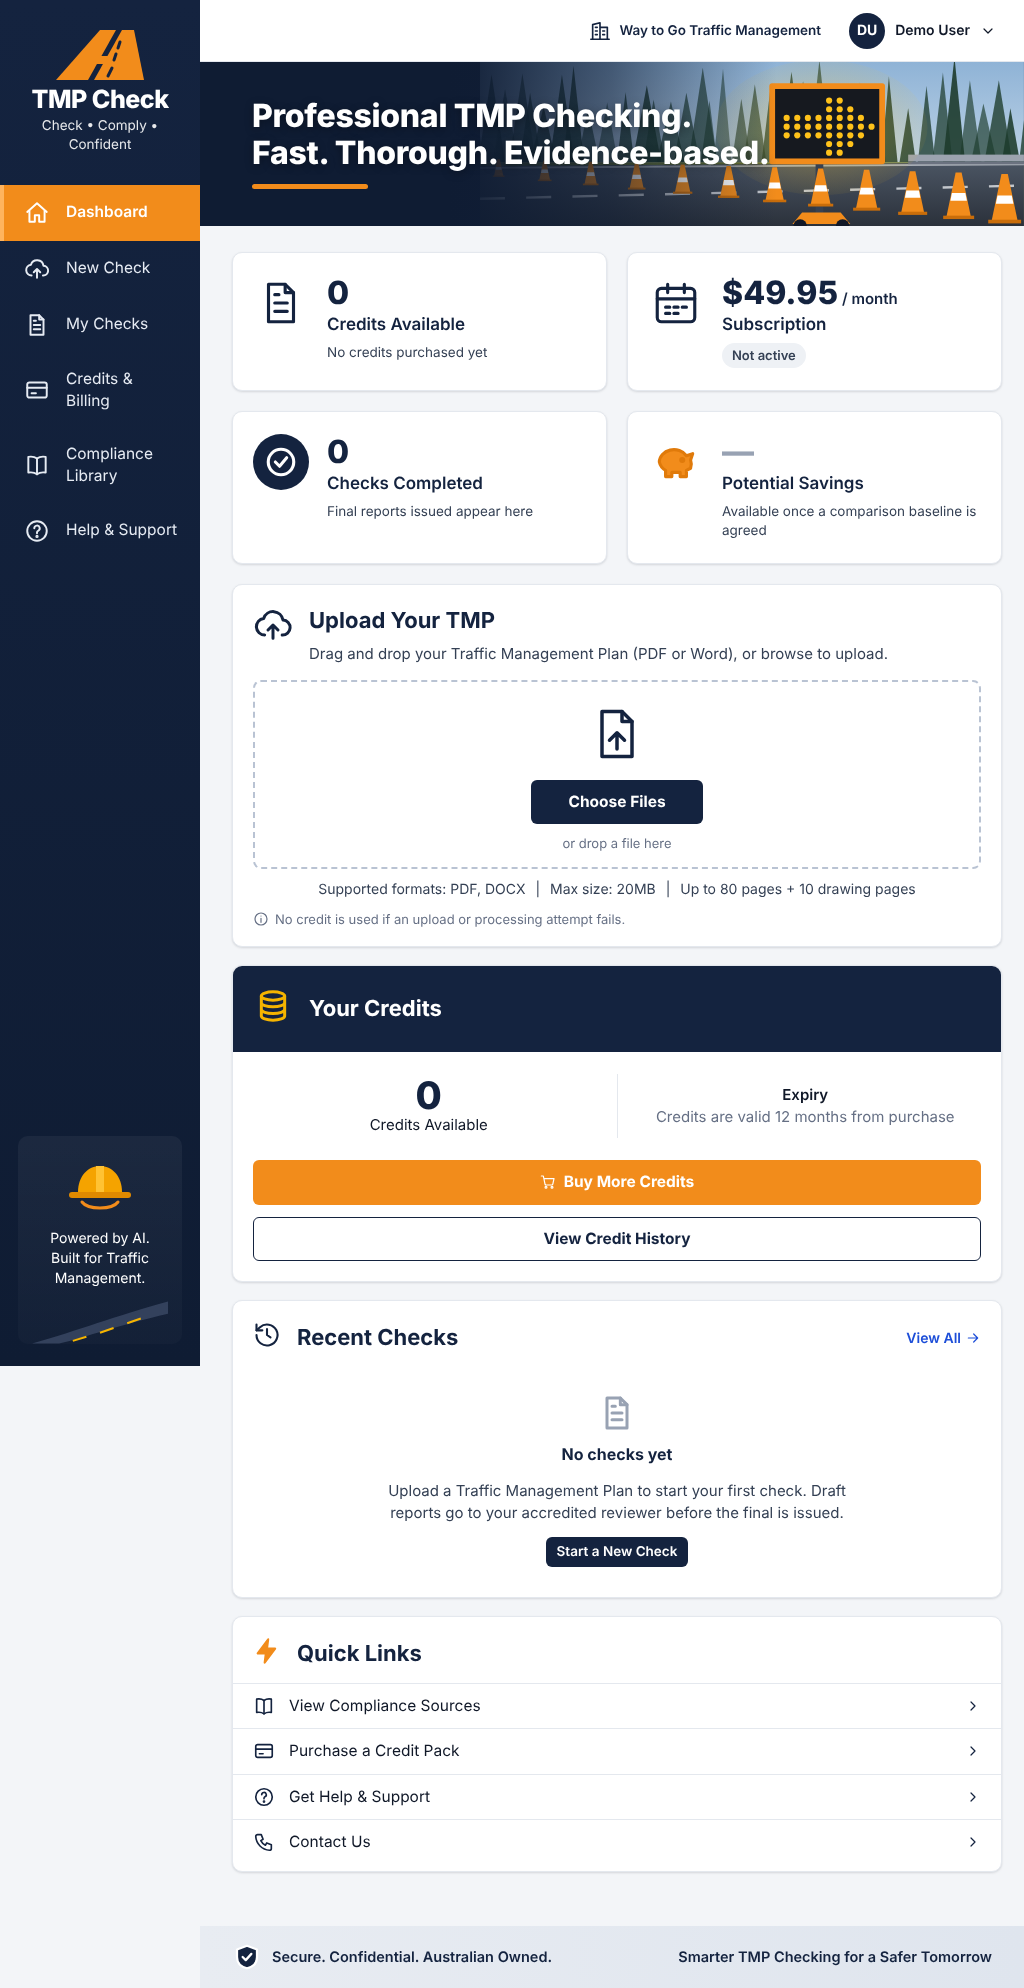
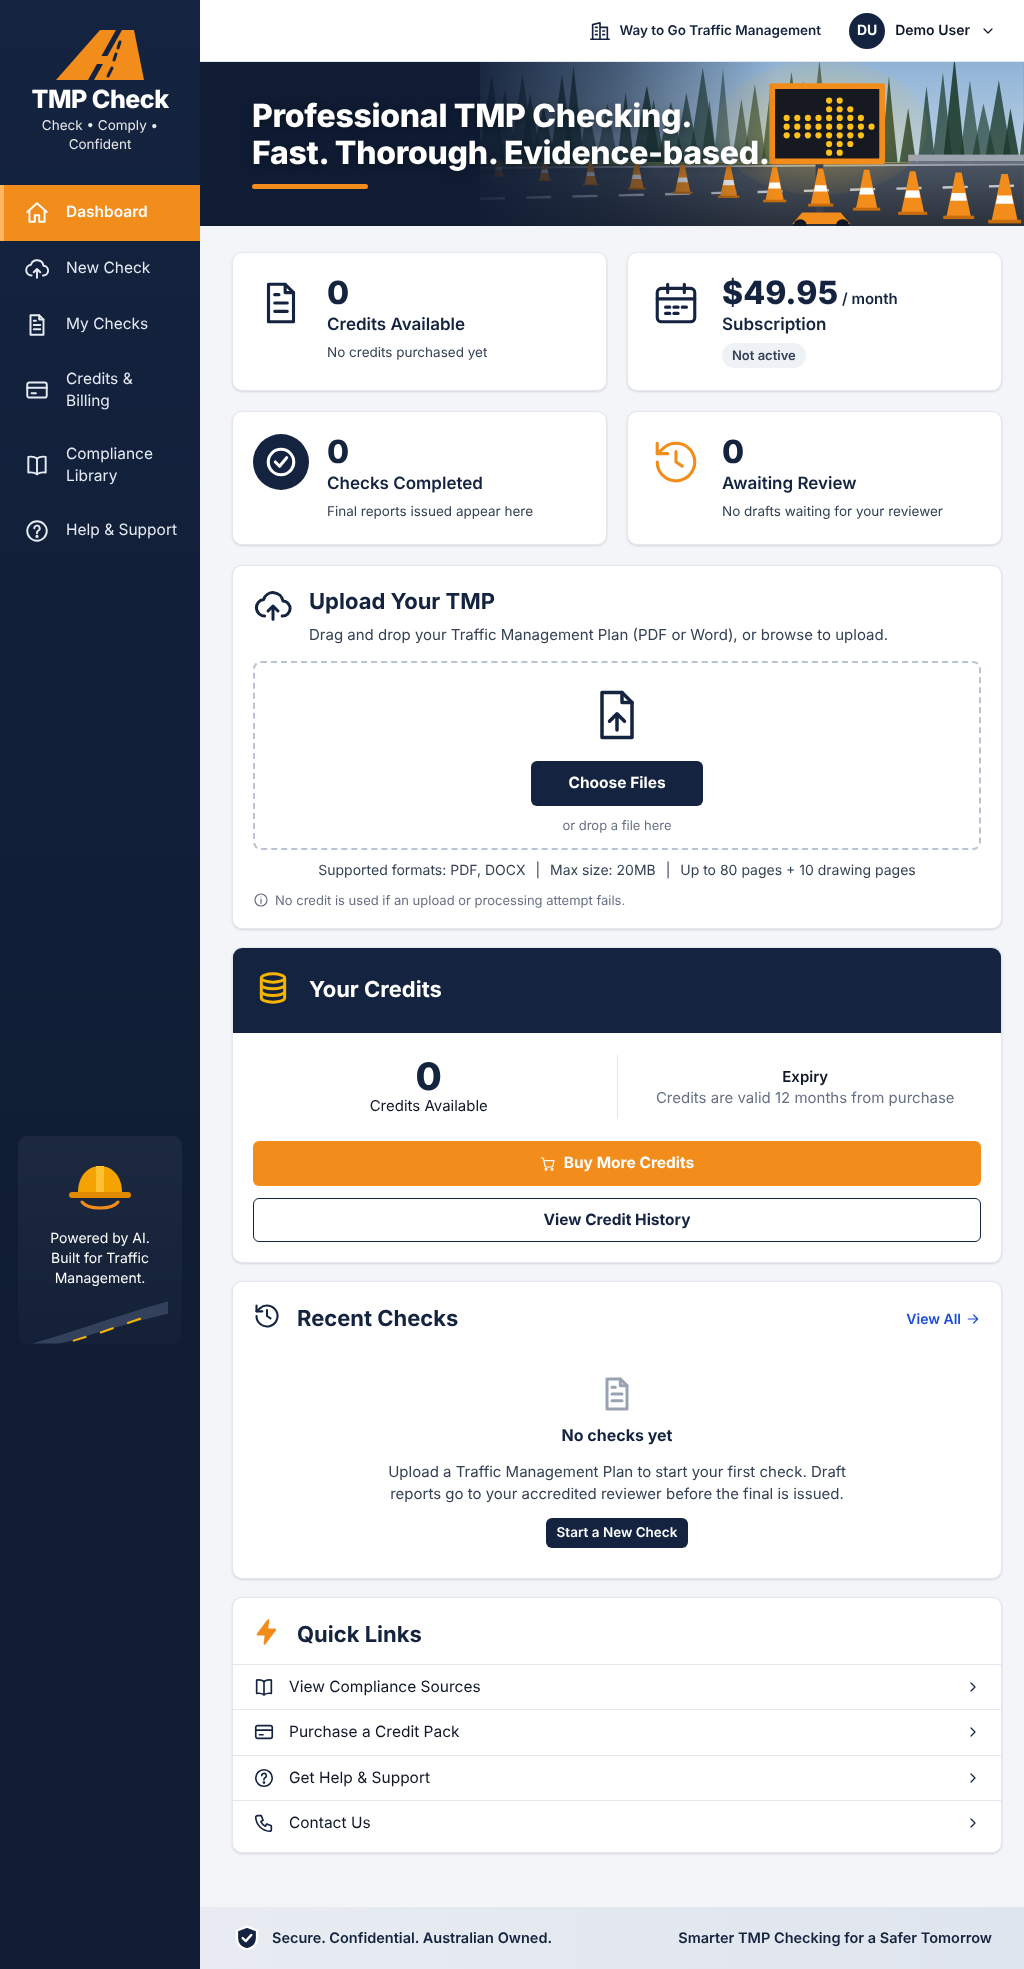
A-25: replace Potential Savings card with Awaiting Review (resolves P-16)
Claude-Session: https://claude.ai/code/session_01FVaWCt5gj4brzhm59qDLsq

diff --git a/src/portal/templates/pages/dashboard.html b/src/portal/templates/pages/dashboard.html
@@ -52,19 +52,13 @@
     </div>
   </article>
 
-  {# 4. Savings — estimate only, needs an agreed baseline (P-16) #}
+  {# 4. Awaiting review — drafts with the customer's accredited reviewer (A-15). Savings card removed (A-25). #}
   <article class="card stat">
-    <div class="stat-ic orange">{{ icon("savings") }}</div>
+    <div class="stat-ic orange-o">{{ icon("history") }}</div>
     <div class="stat-body">
-      {% if d.savings is not none %}
-        <div class="stat-num">{{ money(d.savings)[:-3] }}</div>
-        <div class="stat-label">Estimated Savings</div>
-        <div class="stat-sub">vs. agreed previous-process cost</div>
-      {% else %}
-        <div class="stat-num muted">—</div>
-        <div class="stat-label">Potential Savings</div>
-        <div class="stat-sub">{% if d.savings_baseline_set %}Shown after your first final report{% else %}Available once a comparison baseline is agreed{% endif %}</div>
-      {% endif %}
+      <div class="stat-num">{{ d.awaiting_review }}</div>
+      <div class="stat-label">Awaiting Review</div>
+      <div class="stat-sub">{% if d.awaiting_review %}Drafts with your accredited reviewer{% else %}No drafts waiting for your reviewer{% endif %}</div>
     </div>
   </article>
 </section>

diff --git a/src/portal/templates/_icons.html b/src/portal/templates/_icons.html
@@ -8,7 +8,6 @@
 {%- elif name == "help" -%}<circle cx="12" cy="12" r="9"/><path d="M9.5 9.5a2.5 2.5 0 1 1 3.5 2.3c-.6.3-1 .9-1 1.6V14"/><circle cx="12" cy="17" r=".6" fill="currentColor"/>
 {%- elif name == "calendar" -%}<rect x="3" y="5" width="18" height="16" rx="2"/><path d="M3 10h18M8 3v4M16 3v4M7 14h2M11 14h2M15 14h2M7 17h2M11 17h2"/>
 {%- elif name == "check" -%}<circle cx="12" cy="12" r="9"/><path d="m8 12 3 3 5-6"/>
-{%- elif name == "savings" -%}<path d="M4 12a7 6 0 0 1 13-3l3-1-1 3a6 6 0 0 1 0 4l-2 1v3h-3v-2h-4v2H7v-3a6 6 0 0 1-3-4z"/><circle cx="15" cy="11" r=".7" fill="currentColor"/>
 {%- elif name == "coins" -%}<ellipse cx="12" cy="6" rx="7" ry="2.5"/><path d="M5 6v4c0 1.4 3.1 2.5 7 2.5s7-1.1 7-2.5V6M5 10v4c0 1.4 3.1 2.5 7 2.5s7-1.1 7-2.5v-4M5 14v4c0 1.4 3.1 2.5 7 2.5s7-1.1 7-2.5v-4"/>
 {%- elif name == "history" -%}<path d="M3 12a9 9 0 1 0 3-6.7L3 8"/><path d="M3 3v5h5M12 7v5l3 2"/>
 {%- elif name == "bolt" -%}<path d="M13 2 4 14h7l-1 8 9-12h-7z"/>

diff --git a/src/portal/static/css/portal.css b/src/portal/static/css/portal.css
@@ -110,7 +110,7 @@ main { padding: 0 0 28px; flex: 1; }
 .stat-ic.round { background: var(--navy-800); color: #fff; border-radius: 50%; }
 .stat-ic.round .ic { width: 34px; height: 34px; stroke-width: 2.2; }
 .stat-ic.orange { color: var(--orange); }
-.stat-ic.orange .ic { fill: var(--orange); stroke: var(--orange-600); }
+.stat-ic.orange-o { color: var(--orange); }
 .stat-num { font-size: 32px; font-weight: 800; color: var(--navy-800); line-height: 1.1; }
 .stat-num small { font-size: 15px; font-weight: 600; }
 .stat-num.muted { color: #98a2b3; }

diff --git a/tests/portal/test_portal.py b/tests/portal/test_portal.py
@@ -73,16 +73,14 @@ def test_recent_checks_tenant_scoped_and_wording(db):
     assert rows[0]["findings"] == "No issue identified in this check"
 
 
-def test_completed_counts_final_only_and_savings_needs_baseline(db):
+def test_completed_counts_final_only_and_awaiting_review(db):
     org = db.get(dbm.Organisation, 1)
     db.add_all([dbm.Check(org_id=1, doc_ref="X", filename="x", status=dbm.CheckStatus.draft_review),
                 dbm.Check(org_id=1, doc_ref="Y", filename="y", status=dbm.CheckStatus.final_issued,
                           final_issued_at=NOW)]); db.commit()
     d = services.dashboard(db, org, NOW)
     assert d["checks_completed"] == 1 and d["checks_this_month"] == 1
-    assert d["savings"] is None
-    org.savings_baseline_aud = 405; db.commit()
-    assert services.dashboard(db, org, NOW)["savings"] == 405 - 149
+    assert d["awaiting_review"] == 1
 
 
 def test_prices_match_approved_commercial_model():
@@ -122,7 +120,7 @@ def test_dashboard_empty_states(client):
     html = client.get("/").text
     assert "No credits purchased yet" in html
     assert "No checks yet" in html
-    assert "Available once a comparison baseline is agreed" in html
+    assert "Awaiting Review" in html and "Savings" not in html
     assert "Fast. Thorough. Evidence-based." in html
     assert "Org A" in html and "Org B" not in html
 

diff --git a/src/portal/services.py b/src/portal/services.py
@@ -106,12 +106,8 @@ def dashboard(db: Session, org: Organisation, now: datetime | None = None) -> di
     this_month = sum(1 for c in db.execute(final).scalars()
                      if _aware(c.final_issued_at) and _aware(c.final_issued_at) >= month_start)
 
-    savings = None
-    if org.savings_baseline_aud is not None and completed:
-        # Estimate only (P-16): agreed baseline per check minus single-credit price,
-        # for checks whose final report has been issued.
-        per_check = float(org.savings_baseline_aud) - cfg["credit_products"][0]["price"]
-        savings = max(per_check, 0) * completed
+    awaiting = len(db.execute(select(Check.id).where(
+        Check.org_id == org.id, Check.status == CheckStatus.draft_review)).all())
 
     return {
         "credits": bal,
@@ -119,7 +115,6 @@ def dashboard(db: Session, org: Organisation, now: datetime | None = None) -> di
                          "price": cfg["subscription"]["price"]},
         "checks_completed": completed,
         "checks_this_month": this_month,
-        "savings": savings,
-        "savings_baseline_set": org.savings_baseline_aud is not None,
+        "awaiting_review": awaiting,
         "recent": recent_checks(db, org.id),
     }

diff --git a/src/portal/db.py b/src/portal/db.py
@@ -7,7 +7,7 @@ import enum
 import os
 from datetime import datetime, timezone
 
-from sqlalchemy import (Enum, ForeignKey, Integer, Numeric, String, Text,
+from sqlalchemy import (Enum, ForeignKey, Integer, String, Text,
                         DateTime, create_engine)
 from sqlalchemy.orm import DeclarativeBase, Mapped, mapped_column, sessionmaker
 
@@ -54,9 +54,6 @@ class Organisation(Base):
     subscription_status: Mapped[SubscriptionStatus] = mapped_column(
         Enum(SubscriptionStatus), default=SubscriptionStatus.none)
     subscription_started_at: Mapped[datetime | None] = mapped_column(DateTime(timezone=True))
-    # Per-customer comparison baseline (AUD per check) for the savings estimate.
-    # Null = not agreed → savings card shows an empty state (P-16).
-    savings_baseline_aud: Mapped[float | None] = mapped_column(Numeric(10, 2))
 
 
 class User(Base):

diff --git a/src/portal/devseed.py b/src/portal/devseed.py
@@ -1,6 +1,6 @@
 """Create the local development organisation and user.
 
-No credits, checks or savings baseline are seeded: the dashboard must show
+No credits or checks are seeded: the dashboard must show
 genuine empty states, never mock-up figures (brief §4).
 
     python -m src.portal.devseed [--org "Name"] [--user "Name"] [--email x@y]

diff --git a/DECISIONS.md b/DECISIONS.md
@@ -13,6 +13,7 @@
 | A-08 | Human review of 100% of pilot reports | Handover §9, §13 | 2026-11-20 | Owner |
 | A-09 | No payment functionality before checking capability validated | Handover §16 | 2026-11-20 | Owner |
 | A-10 | Provisional limits: 1 package/check, ≤80 main pages, ≤10 drawing pages | Handover §10 (provisional) | 2026-11-20 | Owner |
+| A-25 | **Savings card removed (resolves P-16):** no savings figure on the dashboard until G8 commercial validation. Replaced by "Awaiting Review" (drafts with accredited reviewer). Departure from approved mock-up | Owner decision | 2026-11-20 | Owner |
 | A-24 | **Credit consumption point (resolves P-15):** 1 credit consumed when the draft report is delivered to the customer's accredited reviewer. Reversal entry if a re-run is needed to correct a TMP Check error (A-05 rule 5). Failed processing consumes nothing | Owner choice of recommended option | 2026-11-20 | Owner |
 | A-23 | **Credit purchasing until payments enabled (resolves P-14, P-05):** "Request credits" → manual invoice; admin records ledger purchase after payment received. Five-credit pack offered at $745 (no discount) | Owner choice of recommended option; A-09 retained | 2026-11-20 | Owner |
 | A-22 | **Portal wording (resolves P-13):** banner headline "Professional TMP Checking. Fast. Thorough. Evidence-based." Tagline "Check • Comply • Confident" retained | Owner choice of recommended option; CLAUDE.md §2 | 2026-11-20 | Owner |
@@ -35,7 +36,6 @@
 | P-07 | Credit rule gaps: credits on subscription lapse/cancel; refunds; expiry consumption order | Credits retained but unusable while unsubscribed; oldest-first consumption; no cash refunds except our error | G8 |
 | P-08 | Data residency: AI processing may occur outside Australia. Acceptable to WTGTM? | Disclose in data-handling statement; obtain WTGTM written consent | G6 |
 | P-09 | Pilot commercial terms (free / discounted / full price during pilot) | Discounted pilot credits in exchange for feedback & benchmark data | G6 |
-| P-16 | Potential Savings card baseline | Hidden until Owner sets per-customer baseline; label as estimate | Before S1 card build |
 
 ## Provisional assumptions (AI-PM, non-material)
 | ID | Assumption | Revisit |

diff --git a/docs/DASHBOARD_IMPLEMENTATION_PLAN.md b/docs/DASHBOARD_IMPLEMENTATION_PLAN.md
@@ -4,7 +4,7 @@
 |---|---|
 | Deliverable | D-17 |
 | Source brief | Owner "TMP Check – Dashboard UI Implementation Brief" + dashboard mock-up, received 2026-11-20 |
-| Status | Awaiting approval (P-16); P-12–P-15 resolved by A-21–A-24 |
+| Status | In progress — all decisions resolved (A-21–A-25); S1 complete |
 | Process tier | Significant (§2A) |
 | Review | Simulated three-perspective review (§5.3) — §7 below |
 
@@ -49,7 +49,7 @@
 
 | Table | Key columns | Notes |
 |---|---|---|
-| `organisation` | id, name, subscription_status, subscription_started_at, savings_baseline_aud (nullable) | Status entered by admin until Stripe |
+| `organisation` | id, name, subscription_status, subscription_started_at | Status entered by admin until Stripe |
 | `user` | id, org_id, email, password_hash, role | |
 | `check` | id, org_id, doc_ref, filename, status, created_at, completed_at, failure_reason, credit_lot_id | Status enum per C-6 |
 | `finding` | id, check_id, severity, page, section, evidence, disposition{pending, accepted, edited, rejected} | From `llm_checks.Finding` |

diff --git a/PROJECT_LOG.md b/PROJECT_LOG.md
@@ -150,3 +150,4 @@ Applied: A-22 headline; statuses per plan C-6/C-7; 5-pack hidden (`offered: fals
 Limitations: no authentication (app refuses to start unless TMPCHECK_ENV=local); "Contact us" details not yet set.
 - A-23: manual-invoice credit requests; 5-pack $745 offered (P-14, P-05 resolved). `CR-5 offered: true`.
 - A-24: credit consumed on draft delivery to reviewer (P-15 resolved). S3 unblocked; P-16 (savings baseline) remains, card defaults to empty state.
+- A-25: Potential Savings card removed; replaced by "Awaiting Review" card (P-16 resolved). All dashboard decisions closed; S2 next.
